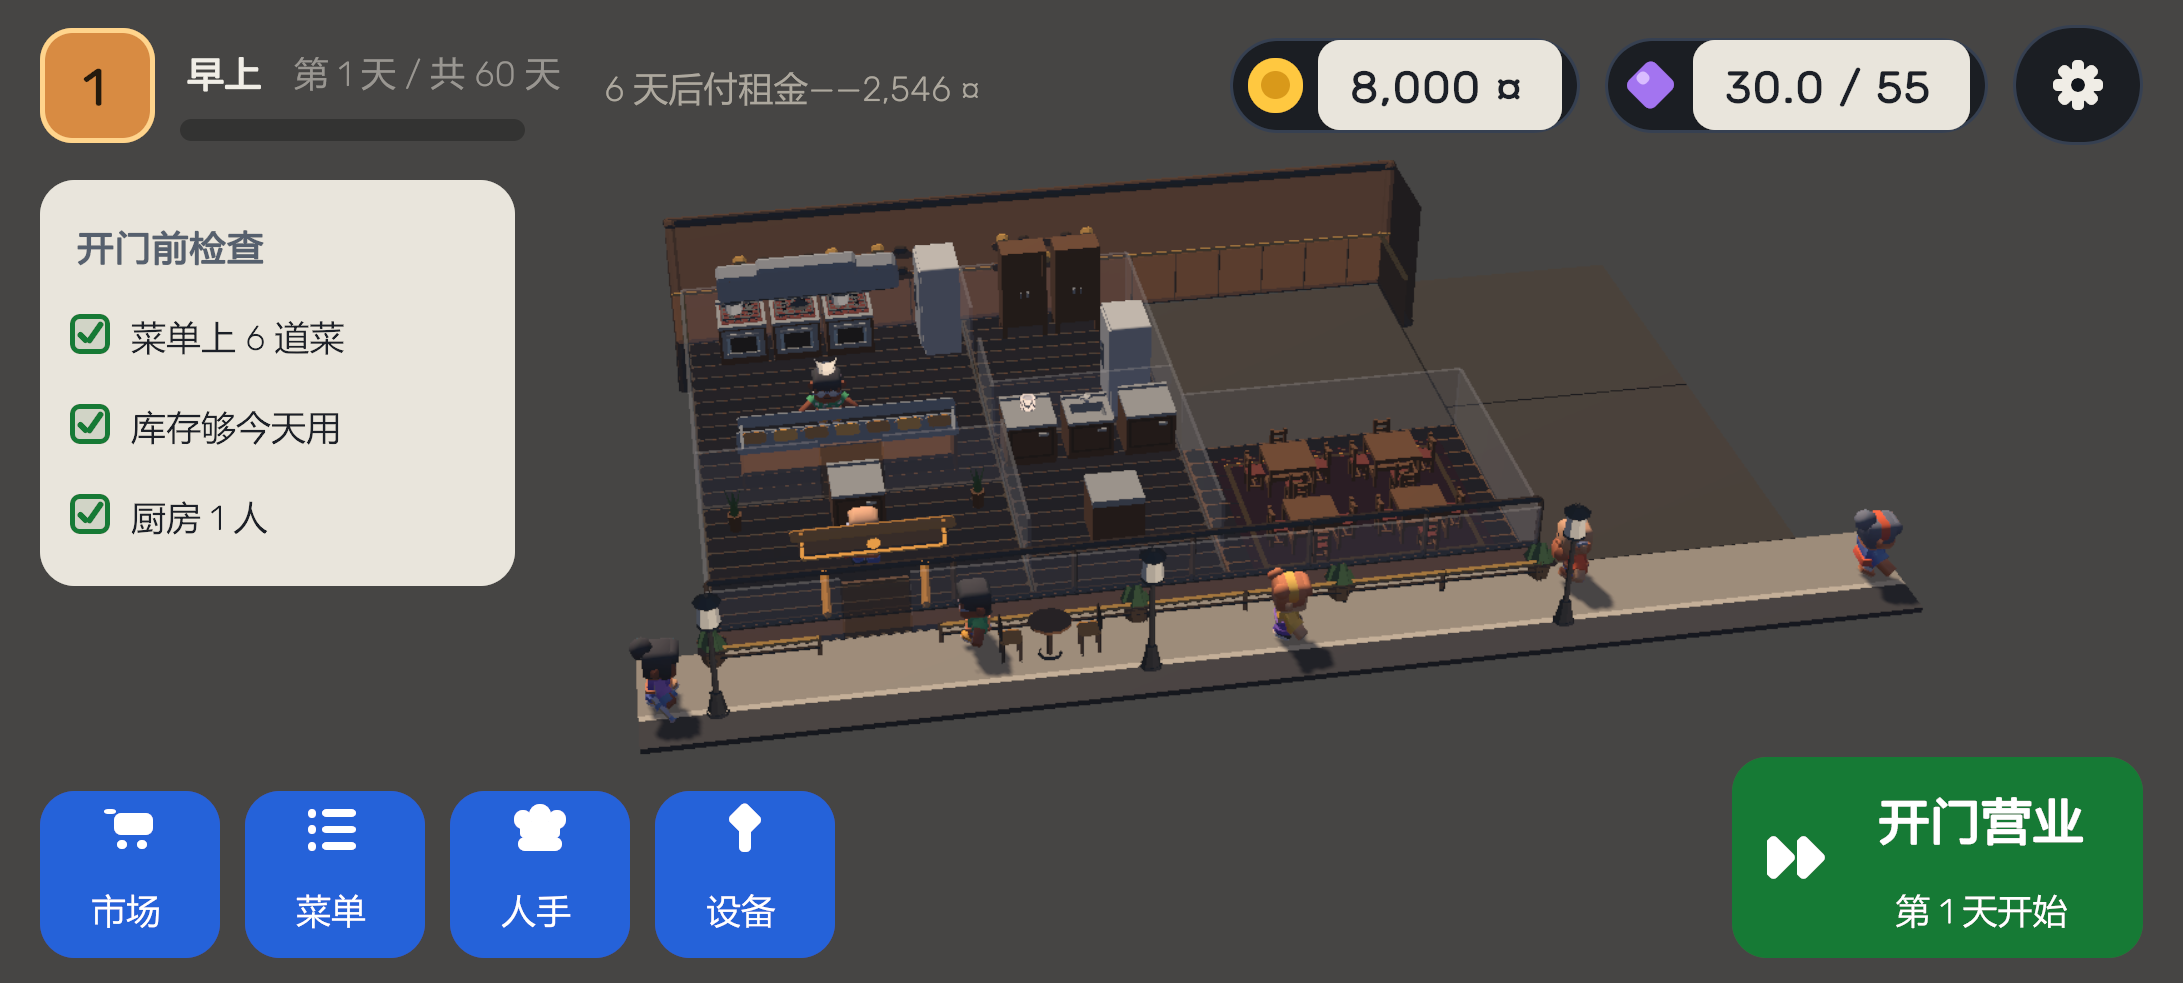
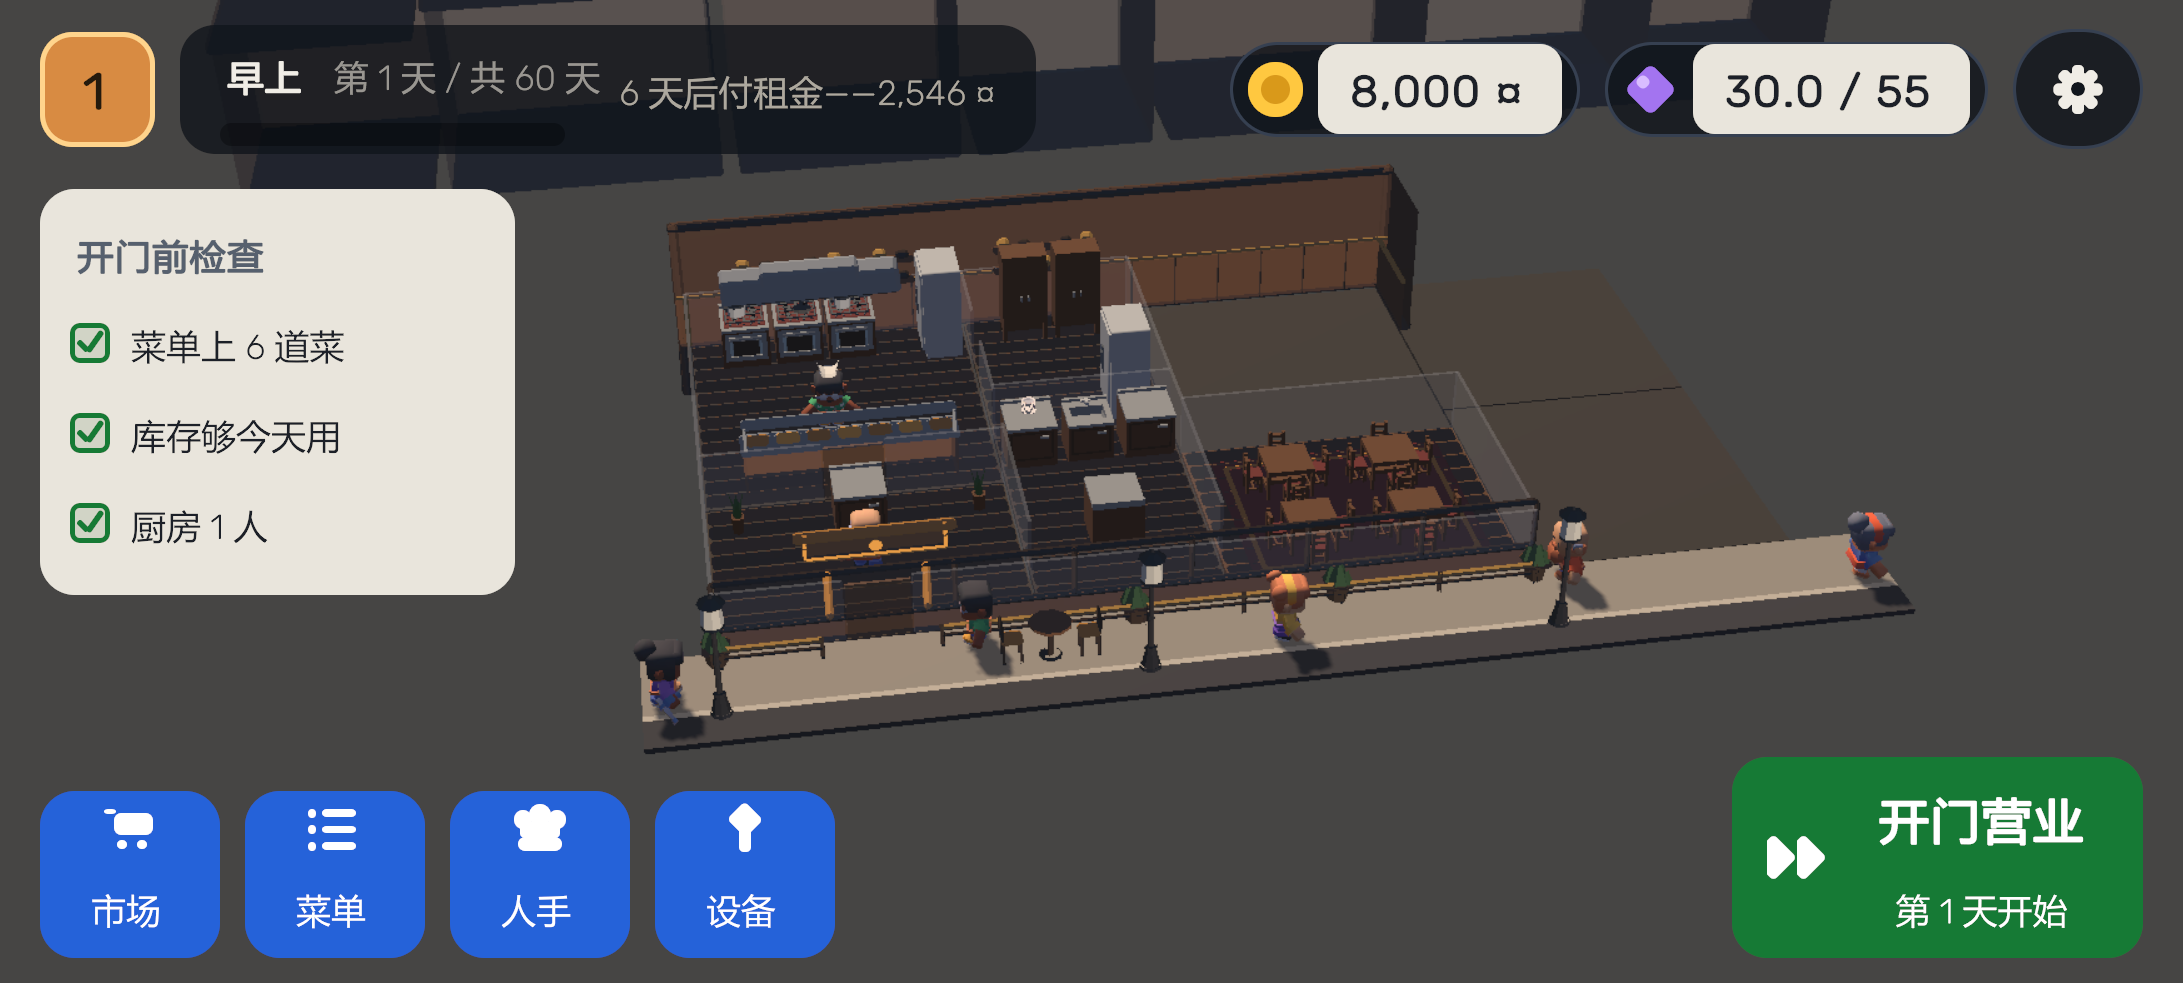
Smart App Control took the whole build, and Burst was not being used anyway
THE MACHINE STOPPED BUILDING. A dropped connection killed Unity mid-write and
left two things corrupt: build/windows, whose player hung at startup with
"Failed to load PlayerSettings ... data file is corrupted", and
Library/SourceAssetDB, which made the editor exit in 1.2 seconds. The Unity
log's first twelve lines are licensing warnings and the cause is one line at
the bottom - "Exiting because Library/SourceAssetDB is corrupted". Both
cleared.

Then the build failed for a real reason: 0x800711C7 on Burst.Backend, the
same Smart App Control block that already owns the IL2CPP path - it blocks
unsigned binaries by hash, a shipped Unity DLL has a fixed hash, and two
attempts failed identically.

BURST IS NOT USED BY THIS GAME. Not one [BurstCompile] anywhere under
Assets, and it is not in Packages/manifest.json - it arrives as a transitive
dependency of URP and the input system. So an AOT step nothing benefits from
was a hard build failure, and turning it off is not a workaround so much as
removing something that should never have been in the build.
BurstAotSettings for Windows and Android, EnableBurstCompilation false.

SAC is still not touched: rule 5, one-way.

THE SKYLINE. 37% of the store frame was one flat colour with the restaurant
sitting in it as a slab. There is a row of neighbouring facades behind the
back wall now, and it costs nothing in framing - CameraFit.OpenBounds is
built from the open rooms plus StreetInFrame and nothing else, so geometry
[…]

diff --git a/unity/Assets/Lokanta/Game/RestaurantView.Decor.cs b/unity/Assets/Lokanta/Game/RestaurantView.Decor.cs
@@ -356,6 +356,7 @@ namespace Lokanta.Game
 
             FloorPattern(m, p, tables);
             Backdrop(m, p, left, right, back);
+            Skyline(m, p, left, right, back);
             Planters(m, p, left, right);
             KitchenHood(m, p, tables);
             ServiceCounter(m, glow, p, tables);
@@ -428,6 +429,101 @@ namespace Lokanta.Game
         /// camera is looking at it from behind anyway - but it makes the
         /// place a ROOM.
         /// </summary>
+        /// <summary>
+        /// THE BLOCK THE RESTAURANT STANDS IN: a row of neighbouring facades
+        /// behind it, and one at each end of the street.
+        ///
+        /// WHY. Measured off the store frame: 37% of it was a single flat
+        /// colour - the camera's clear colour standing in for the sky - and
+        /// the building sat in it as a slab with a hard dark edge and nothing
+        /// behind, above or beside it. That is the clearest "this is a level
+        /// editor, not a place" tell in the picture, and at night it is
+        /// forgiven only because darkness is a plausible thing to see.
+        ///
+        /// IT COSTS NOTHING IN FRAMING. `CameraFit.OpenBounds` is built from
+        /// the open rooms plus `StreetInFrame` and nothing else - I read it
+        /// before writing this - so geometry placed BEHIND the back wall does
+        /// not move the camera a millimetre and does not shrink the
+        /// restaurant. That is the whole reason this is the cheap fix and
+        /// "pull the camera in" is not: the camera is already bound by the
+        /// touch-target measurement in docs/31.
+        ///
+        /// WHAT THEY ARE NOT. They are not buildings you can enter, light or
+        /// expand into; they are a backdrop. So they are deliberately dull:
+        /// darker than the restaurant's own wall, low contrast between
+        /// neighbours, no windows lit by day. A skyline that competes with the
+        /// hall for attention would be worse than the flat colour, which at
+        /// least does not pretend to be interesting.
+        ///
+        /// THE HEIGHTS ARE VARIED BUT NOT RANDOM PER FRAME. The pattern is
+        /// derived from the facade's index, so the street looks the same every
+        /// time the scene is built - a skyline that reshuffles on a rebuild
+        /// would be a bug the player sees as flicker.
+        /// </summary>
+        private void Skyline(Modeler m, Palette p, float left, float right, float back)
+        {
+            // FAR BACK. The first attempt put them at back + 2.6 and they
+            // loomed: a dark mass directly behind the roofline, filling the
+            // top of the frame and sitting under the day counter in the HUD.
+            // The measurement improved (37.3% of the frame flat, down to
+            // 26.5%) and the PICTURE got worse, which is the whole argument
+            // for looking at the frame as well as at the number.
+            float z = back + 7.0f;
+
+            // Wider than the plot on both sides: the row has to run out of the
+            // frame, not stop inside it. A skyline with visible ends is a
+            // stage set.
+            float from = left - 9f;
+            float to = right + 9f;
+
+            // ATMOSPHERE, NOT DARKNESS.
+            //
+            // The first attempt made them DARKER than the restaurant's wall,
+            // on the reasoning that the building in front should stay the
+            // brightest thing. It does - but a dark block against a mid-grey
+            // sky reads as a heavy near object, not a distant one, and the
+            // row came out as a black wall pressing on the roofline.
+            //
+            // Distance desaturates and lifts towards the sky; it does not
+            // darken. These are the wall colour pulled most of the way to a
+            // cool haze, so they sit BEHIND the sky's own value rather than
+            // in front of it, and the restaurant stays the only saturated
+            // thing in the frame.
+            Color haze = new Color(0.36f, 0.38f, 0.42f);
+            Color a = Color.Lerp(p.Wall, haze, 0.72f);
+            Color b = Color.Lerp(p.Wall, haze, 0.80f);
+            Color roof = Color.Lerp(p.Wall, haze, 0.62f);
+
+            int i = 0;
+            for (float x = from; x < to; i++)
+            {
+                // Widths cycle 4.2 / 6.0 / 5.1 so the rhythm does not read as
+                // a fence.
+                float w = i % 3 == 0 ? 4.2f : (i % 3 == 1 ? 6.0f : 5.1f);
+                // Heights cycle over five steps between 3.6 and 6.0 m. The
+                // back wall is 2.6, so every one clears it - and the ceiling
+                // is low enough that the row sits along the top of the frame
+                // instead of filling it.
+                float h = 3.6f + (i % 5) * 0.6f;
+
+                m.Box(new Vector3(x + w * 0.5f, h * 0.5f, z + 2.0f),
+                      new Vector3(w - 0.35f, h, 4.0f), i % 2 == 0 ? a : b);
+
+                // A parapet: the line that stops a block reading as a
+                // rectangle of colour.
+                m.Box(new Vector3(x + w * 0.5f, h + 0.13f, z + 2.0f),
+                      new Vector3(w - 0.20f, 0.26f, 4.3f), roof);
+
+                x += w;
+            }
+        }
+
+        /// <summary>Scales a colour's brightness, keeping its alpha.</summary>
+        private static Color Mul(Color c, float k)
+        {
+            return new Color(c.r * k, c.g * k, c.b * k, c.a);
+        }
+
         private void Backdrop(Modeler m, Palette p, float left, float right, float back)
         {
             float width = right - left;

diff --git a/unity/Assets/Lokanta/Game/Ui/GameScreen.cs b/unity/Assets/Lokanta/Game/Ui/GameScreen.cs
@@ -530,6 +530,30 @@ namespace Lokanta.Game.Ui
             _day = Theme.Text("", Theme.FontBody, Theme.Ink);
             row.Add(Kit.Badge(_day));
 
+            // THE LEFT GROUP SITS ON A PLATE. The till and the reputation
+            // have had one all along; the day, the phase, the day's progress
+            // and the rent countdown did not.
+            //
+            // The strip has no background on purpose - "the space that wins
+            // goes to the hall" - and that is right for the STRIP. It is not
+            // right for the text: over a bright wooden counter in the zoomed
+            // room view, `Service 1 / 60` and `Rent in 6 days` were simply
+            // unreadable, and docs/16 says the rent countdown has to be
+            // visible at all times. Adding a skyline behind the building made
+            // it worse, because the top corners stopped being flat colour.
+            //
+            // A plate under the text rather than a bar across the strip: the
+            // hall keeps everything the group does not stand on.
+            VisualElement leftPlate = Theme.Row(0);
+            leftPlate.style.alignItems = Align.Center;
+            leftPlate.style.backgroundColor = Kit.CardBg;
+            leftPlate.style.paddingLeft = 8;
+            leftPlate.style.paddingRight = 10;
+            leftPlate.style.paddingTop = 3;
+            leftPlate.style.paddingBottom = 3;
+            leftPlate.pickingMode = PickingMode.Ignore;
+            Theme.Round(leftPlate, Kit.CardRadius);
+
             VisualElement dayGroup = new VisualElement();
             dayGroup.style.marginLeft = 8;
             dayGroup.pickingMode = PickingMode.Ignore;
@@ -565,7 +589,7 @@ namespace Lokanta.Game.Ui
 
             VisualElement track = Kit.Meter(out _meterFill, 138f, 9f);
             dayGroup.Add(track);
-            row.Add(dayGroup);
+            leftPlate.Add(dayGroup);
 
             // THE RENT COUNTDOWN. docs/02 calls the weekly rent "the
             // metronome of the pressure", and that metronome was not on the
@@ -573,7 +597,8 @@ namespace Lokanta.Game.Ui
             // player only noticed after the figure had dropped.
             _rent = Theme.Text("", Theme.FontSmall, Theme.InkDim);
             _rent.style.marginLeft = Theme.Pad;
-            row.Add(_rent);
+            leftPlate.Add(_rent);
+            row.Add(leftPlate);
 
             VisualElement spacer = new VisualElement();
             spacer.style.flexGrow = 1;
